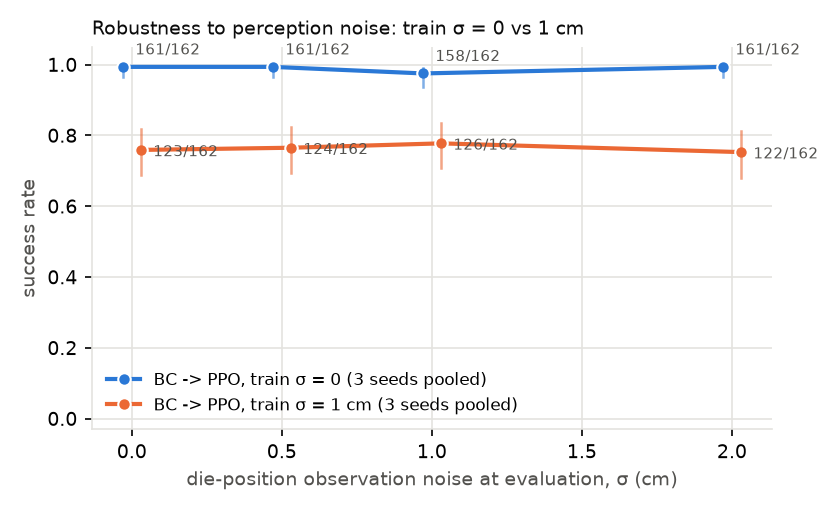
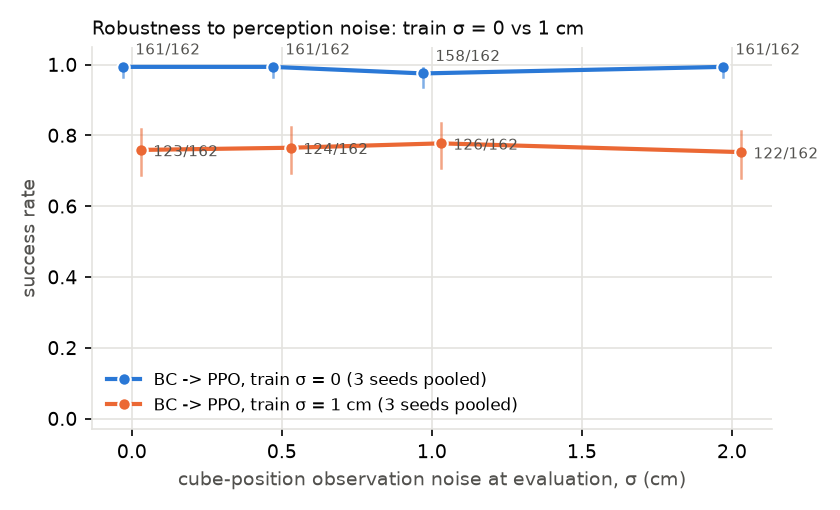
Call the foam die a cube
"Die" reads as a small dice; the real-robot pages already say cube.
Wording, comments and the ablation axis label only; no code paths change.

Changed region(s): [[0.2167, 0.9118, 0.8048, 0.9706]]

diff --git a/rebot_sim_rl/env.py b/rebot_sim_rl/env.py
@@ -1,6 +1,6 @@
 """Gymnasium environment: B601-RS T1 pick-and-place in MuJoCo (state observations).
 
-Task (aligned with reBot t1_pick_place_v1): pick the ~6 cm blue die from the mat
+Task (aligned with reBot t1_pick_place_v1): pick the ~6 cm blue cube from the mat
 grid and release it inside the open lunch box.
 
 MDP
@@ -12,20 +12,20 @@ MDP
                  pointing down) into joint position targets, which are clipped to
                  the real software limits and rate-limited (1 rad/s), then tracked
                  by force-limited joint PD servos (position actuators).
-  observation    38-d state vector (joint state, TCP, die pose, box offset,
-                 contacts, previous action); die position optionally noisy.
+  observation    38-d state vector (joint state, TCP, cube pose, box offset,
+                 contacts, previous action); cube position optionally noisy.
   reward         dense, staged, per-step max 1 (version 2, the default):
                  reach 0.2, grasp +0.2, lift +0.1, transport +0.4 (1 - tanh(3 d)),
-                 die inside box 0.9; success ends the episode with 1.0 for each
+                 cube inside box 0.9; success ends the episode with 1.0 for each
                  remaining step (equivalent to an absorbing max-reward state, so the
                  agent is never paid for delaying success). Version 1 (first pilot)
                  had no lift term and a transport term 1 - tanh(5 d) that is flat
                  ~0.4 m from the box; PPO then learned to grasp and hold (README).
                  Version 3 keeps the v2 shaping but counts success only for a careful
                  release (see CAREFUL_RELEASE_*): v2 policies let go while moving.
-  success        die centre inside the box's inner footprint, below 6 cm height,
+  success        cube centre inside the box's inner footprint, below 6 cm height,
                  not touched by either finger.
-  termination    success, or die knocked > 0.6 m from the workspace centre.
+  termination    success, or cube knocked > 0.6 m from the workspace centre.
   truncation     150 steps (15 s).
 """
 from __future__ import annotations
@@ -48,7 +48,7 @@ TILT_DEG_AT_TABLE = 12.0
 TILT_DEG_PER_M = 80.0
 TILT_DEG_MAX = 28.0
 # Careful placement (reward v3 success condition, also reported by the evaluation):
-# at the last release the die centre is at most 8 cm high (bottom ~at the 4.5 cm rim)
+# at the last release the cube centre is at most 8 cm high (bottom ~at the 4.5 cm rim)
 # and moves horizontally at most 0.2 m/s. The scripted expert releases at a median
 # 4.3 cm / 0.08 m/s; reward-v2 policies released while still moving, from up to 14 cm.
 CAREFUL_RELEASE_MAX_Z = 0.08
@@ -82,7 +82,7 @@ def target_rotation(pos, yaw):
 
 
 def fold90(a):
-    """Fold an angle to [-pi/4, pi/4) (the die is symmetric under 90 deg)."""
+    """Fold an angle to [-pi/4, pi/4) (the cube is symmetric under 90 deg)."""
     return (a + np.pi / 4) % (np.pi / 2) - np.pi / 4
 
 
@@ -235,7 +235,7 @@ class B601T1Env(gym.Env):
         self.ever_grasped = False
         self.max_stage = 0
         self.holding = False
-        self.release = None  # (die centre z, horizontal speed) at the most recent release
+        self.release = None  # (cube centre z, horizontal speed) at the most recent release
         return self._obs(), self._info(False)
 
     def step(self, action):
@@ -266,7 +266,7 @@ class B601T1Env(gym.Env):
         self.holding = (self.holding or grasped) and (left or right)
         success = self.in_box(cube) and not (left or right)
         if self.reward_version >= 3 and success:
-            # v3: only a careful placement counts (the T1 protocol lowers the die before release)
+            # v3: only a careful placement counts (the T1 protocol lowers the cube before release)
             success = self.careful_release()
         d_reach = np.linalg.norm(self.tcp_pos() - cube)
         r = 0.2 * (1 - math.tanh(10 * d_reach))

diff --git a/scripts/check_model.py b/scripts/check_model.py
@@ -5,8 +5,8 @@
    kinematically in the sim model. At each grasp (gripper starts closing after its
    largest opening) the simulated fingertip position is compared with the planned
    cube cell, and the tool axis with the vertical.
-3. Gripper mapping: the J7 reading while holding the 6 cm die is converted to a
-   finger gap with the linear profile-08 mapping and compared with the die size.
+3. Gripper mapping: the J7 reading while holding the 6 cm cube is converted to a
+   finger gap with the linear profile-08 mapping and compared with the cube size.
 4. Fraction of recorded samples outside the sim joint ranges.
 
 Writes results/model_check/{model_check.json, model_check.md}.
@@ -86,7 +86,7 @@ def main():
                                  "max": float(tipz.max())},
         "grasp_tool_tilt_deg": {"median": float(np.median(tilt)), "max": float(tilt.max())},
         "hold_gap_cm": {"median": float(np.median(gap)), "min": float(gap.min()), "max": float(gap.max()),
-                        "expected": "~6 cm die (soft, can be squeezed)"},
+                        "expected": "~6 cm cube (soft, can be squeezed)"},
     }
     (args.out / "model_check.json").write_text(json.dumps({"summary": summary, "grasps": rows}, indent=1))
 
@@ -101,12 +101,12 @@ def main():
               f"- Episodes with a detectable grasp: {len(rows)}",
               f"- TCP-to-planned-cell xy error: median {summary['grasp_xy_error_cm']['median']:.1f} cm, "
               f"p90 {summary['grasp_xy_error_cm']['p90']:.1f} cm, max {summary['grasp_xy_error_cm']['max']:.1f} cm "
-              "(cell positions themselves are +-2 cm; the die is placed +-1 cm)",
+              "(cell positions themselves are +-2 cm; the cube is placed +-1 cm)",
               f"- Fingertip height at grasp: median {summary['grasp_fingertip_z_cm']['median']:.1f} cm "
               f"(range {summary['grasp_fingertip_z_cm']['min']:.1f} to {summary['grasp_fingertip_z_cm']['max']:.1f}); "
               "the table is z = 0",
               f"- Tool axis tilt from vertical at grasp: median {summary['grasp_tool_tilt_deg']['median']:.0f} deg",
-              f"- Finger gap while holding the 6 cm die (linear J7 map): median {summary['hold_gap_cm']['median']:.1f} cm "
+              f"- Finger gap while holding the 6 cm cube (linear J7 map): median {summary['hold_gap_cm']['median']:.1f} cm "
               f"(range {summary['hold_gap_cm']['min']:.1f} to {summary['hold_gap_cm']['max']:.1f})",
               f"- Recorded samples outside the sim joint ranges by > 0.02 rad: {outside} / {total}", "",
               "| episode | cell | yaw | xy error cm | fingertip z cm | tilt deg | hold gap cm |",

diff --git a/tools/build_scene.py b/tools/build_scene.py
@@ -17,7 +17,7 @@ J1-J6 axes and meshes, is kept unchanged):
      MuJoCo position actuators (PD, force-limited to the upstream ctrlrange) with
      actuator gravity compensation, i.e. the same structure as the upstream
      physics-mode sync (tau = bias + kp*(q*-q) - kd*qd, clipped).
-  4. A table (base mounted on the table surface, z = 0), the 6 cm foam die and the
+  4. A table (base mounted on the table surface, z = 0), the 6 cm foam cube and the
      open lunch box are placed at the positions measured for the real T1 setup.
 """
 import argparse
@@ -134,7 +134,7 @@ def build(limits: dict, layout: dict) -> str:
     ET.SubElement(wb, "geom", name="desk_mat", type="box", size="0.148 0.21 0.0005",
                   pos=f"{gx:.3f} {gy:.3f} 0.0005", material="mat_white",
                   contype="0", conaffinity="0", group="1")
-    # Foam die: 6 cm, light, moderately high friction (foam)
+    # Foam cube: 6 cm, light, moderately high friction (foam)
     cube = layout["cube"]
     cb = ET.SubElement(wb, "body", name="cube", pos=f"{gx:.3f} {gy:.3f} {cube['half'] + 0.001:.4f}")
     ET.SubElement(cb, "freejoint", name="cube_free")

diff --git a/rebot_sim_rl/expert.py b/rebot_sim_rl/expert.py
@@ -1,6 +1,6 @@
-"""Scripted IK expert for T1-sim (uses privileged true die pose).
+"""Scripted IK expert for T1-sim (uses privileged true cube pose).
 
-Phases: approach above die -> descend -> close -> lift -> carry above box
+Phases: approach above cube -> descend -> close -> lift -> carry above box
 (rotating the finger axis to the box long side, as in the real protocol) ->
 lower -> open -> retreat. Outputs actions in the env's action space so the same
 trajectories can be used for behaviour cloning.
@@ -47,7 +47,7 @@ class ScriptedExpert:
         if self.grasp_yaw is None:
             self.grasp_yaw = e.tcp_yaw() + fold90(e.cube_yaw() - e.tcp_yaw())
         ph = self.phase
-        if ph == 0:  # above die, open, aligned
+        if ph == 0:  # above cube, open, aligned
             tgt = np.array([cube[0], cube[1], 0.12])
             a = self._move(tgt, self.grasp_yaw, OPEN)
             if np.linalg.norm(tgt - tcp) < 0.012 and abs(wrap(self.grasp_yaw - e.tcp_yaw())) < 0.05 and e.gap() > 0.07:

diff --git a/scripts/plot_ablation.py b/scripts/plot_ablation.py
@@ -1,4 +1,4 @@
-"""Single-factor ablation: success vs evaluation-time die-position noise.
+"""Single-factor ablation: success vs evaluation-time cube-position noise.
 
 Reads results/eval/<group>_s<seed>.json written by scripts/evaluate.py and pools the
 seeds of each group (same 54 starts and noise sequences per setting).
@@ -60,7 +60,7 @@ def main():
         table[label] = {f"{x * 100:g}cm": {"successes": agg[x][0], "episodes": agg[x][1],
                                            "wilson95": [round(v, 3) for v in wilson(*agg[x])],
                                            "per_seed_rate": [round(r, 3) for r in per_seed[x]]} for x in xs}
-    ax.set_xlabel("die-position observation noise at evaluation, σ (cm)", color=INK2)
+    ax.set_xlabel("cube-position observation noise at evaluation, σ (cm)", color=INK2)
     ax.set_ylabel("success rate", color=INK2)
     ax.set_ylim(-0.03, 1.05)
     ax.set_title("Robustness to perception noise: train σ = 0 vs 1 cm", color=INK, loc="left", fontsize=9)

diff --git a/scripts/evaluate.py b/scripts/evaluate.py
@@ -1,6 +1,6 @@
 """Fixed-seed evaluation of a saved policy, optionally under perturbations, with videos.
 
-  # nominal + robustness sweep over die-position observation noise
+  # nominal + robustness sweep over cube-position observation noise
   python scripts/evaluate.py --model runs/x/model_last.zip --obs-noise 0 0.005 0.01 0.02 \
       --out results/eval/x.json
   # save failure (and a few success) videos
@@ -36,7 +36,7 @@ def main():
     ap.add_argument("--model", type=Path, required=True)
     ap.add_argument("--obs-noise", type=float, nargs="+", default=[0.0])
     ap.add_argument("--friction", type=float, nargs="*", default=None,
-                    help="optional die friction values to sweep at zero obs noise")
+                    help="optional cube friction values to sweep at zero obs noise")
     ap.add_argument("--reps", type=int, default=EVAL_REPS)
     ap.add_argument("--out", type=Path)
     ap.add_argument("--videos", type=Path, default=None)

diff --git a/scripts/train_rl.py b/scripts/train_rl.py
@@ -81,7 +81,7 @@ def main():
     ap.add_argument("--log-std-init", type=float, default=0.0)
     ap.add_argument("--warmup-steps", type=int, default=0, help="critic-only updates before the actor trains")
     ap.add_argument("--ent-coef", type=float, default=0.0)
-    ap.add_argument("--obs-noise", type=float, default=0.0, help="train-time die position obs noise (m)")
+    ap.add_argument("--obs-noise", type=float, default=0.0, help="train-time cube position obs noise (m)")
     ap.add_argument("--reward-version", type=int, default=2)
     ap.add_argument("--eval-every", type=int, default=250_000)
     ap.add_argument("--device", default="auto")

diff --git a/scripts/collect_demos.py b/scripts/collect_demos.py
@@ -1,6 +1,6 @@
 """Collect scripted-IK demonstrations on the training start distribution.
 
-The expert sees the true die pose. Labels are the clean expert actions; the
+The expert sees the true cube pose. Labels are the clean expert actions; the
 executed action can be perturbed (DART-style) to widen state coverage. Only
 successful episodes are kept, like the accepted real T1 demos.
 """

diff --git a/README.md b/README.md
@@ -1,7 +1,7 @@
 # rebot-sim-rl: RL and imitation in a MuJoCo twin of the reBot B601-RS T1 task
 
 State-based reinforcement learning, behaviour cloning, and BC→RL fine-tuning on a
-simulated version of the real-robot task *T1: pick up the ~6 cm blue foam die and
+simulated version of the real-robot task *T1: pick up the ~6 cm blue foam cube and
 place it in the white lunch box* (reBot `t1_pick_place_v1`). Everything here is
 **simulation only**. None of these policies has been run on the real arm.
 
@@ -11,7 +11,7 @@ All numbers: deterministic policy, **54 fixed T1 starts** per checkpoint (9 mat
 points × yaw {0°, 45°} × 3 placement jitters), 3 training seeds per condition,
 pooled counts with 95% Wilson intervals. Reward version 2 unless noted.
 
-| Policy | Env steps | Success (die in box, released) | Careful placement* |
+| Policy | Env steps | Success (cube in box, released) | Careful placement* |
 |---|---|---|---|
 | Scripted IK expert (privileged) | – | 54/54 | 48/54 |
 | BC, 10 scripted demos | – | **0/162** (0–2%) | 0/162 |
@@ -20,9 +20,9 @@ pooled counts with 95% Wilson intervals. Reward version 2 unless noted.
 | BC → PPO, train obs noise 1 cm (ablation) | 3M | 123/162 (76%, 69–82%); seeds 54, 15, 54 | 29/162 (18%) |
 | BC → PPO, reward v3 (only careful placement counts) | 3M | 25/162 (15%, 11–22%); seeds 2, 10, 13 | 12/162 (7%, 4–13%) |
 
-\*Careful placement: at release the die centre is ≤ 8 cm high (its bottom about at
+\*Careful placement: at release the cube centre is ≤ 8 cm high (its bottom about at
 the 4.5 cm box rim) and moves horizontally ≤ 0.2 m/s. The real T1 protocol lowers
-the die into the box before opening.
+the cube into the box before opening.
 
 ![evaluation success](results/figures/main_eval_success.png)
 
@@ -37,20 +37,20 @@ What the experiments show:
    climbed from 12 to 68 per episode in 1M steps at 0% success: it learned to grasp
    and hold, because the transport term was flat far from the box
    (`results/figures/pilot_reward_v1_*.png`). Even with v2, scratch PPO spends
-   millions of steps carrying the die to the box and holding it there; releasing
+   millions of steps carrying the cube to the box and holding it there; releasing
    costs the grasp and transport reward before the success bonus arrives.
    Training return and success are plotted separately
    (`main_train_return.png`, `main_train_success.png`, `main_eval_success.png`).
 3. **The success metric was gamed.** Reward-v2 policies let go while still moving,
    from up to 20 cm (median 8.9 cm): BC→PPO's 161/162 "successes" contain only 13 careful
-   placements. The success test only checks where the die ends up.
+   placements. The success test only checks where the cube ends up.
    **Tightening the success test alone did not fix it.** Reward v3 (same shaping,
    success and its bonus only for a careful placement) removed the shortcut but
-   BC→PPO then mostly carried the die and held it: 12/162 careful placements after
+   BC→PPO then mostly carried the cube and held it: 12/162 careful placements after
    3M steps, no better than v2 (`results/figures/v3_*.png`). A shaping term for
    lowering into the box mouth (or demos that do it) is the next thing to try;
    not done here.
-4. **Domain-randomisation ablation (single factor: die-position observation noise,
+4. **Domain-randomisation ablation (single factor: cube-position observation noise,
    i.i.d. Gaussian per step) found no benefit.** Policies fine-tuned without noise
    kept 158–161/162 at evaluation noise up to σ = 2 cm; training with σ = 1 cm did
    not improve that and one of its three seeds did not converge (15/54). The
@@ -64,8 +64,8 @@ What the experiments show:
    0/162, 20 demos 111/162, 50 demos 146/162 (`results/figures/bc_scaling.png`).
 
 Failure modes (`results/videos/`, first failures of each model at σ = 0):
-scratch PPO holding the die inside the box mouth without releasing (top), BC
-carrying the die to the box but never opening (middle); bottom: a BC→PPO "success"
+scratch PPO holding the cube inside the box mouth without releasing (top), BC
+carrying the cube to the box but never opening (middle); bottom: a BC→PPO "success"
 that lets go while still moving.
 
 ![failure modes](results/figures/failure_modes.png)
@@ -106,9 +106,9 @@ exceeded its time limit.
 | Arm | upstream B601-RS MJCF kinematics, inertias and meshes; joint ranges clipped to the real software limits of control profile 08 (relative to the profile reference zero) | B601-RS, profile `b601_px6d_w2l_wide_open_20261016_08` |
 | Tool | primitive PX6D + R8 + W2L model: 24 cm flange-to-fingertip, parallel gap 0–8.4 cm, 30 N grip limit | PX6D-75 + R8 + two DM-Tac W2L fingers, 24 cm (tape), 8.4 cm max gap |
 | Control | 10 Hz Cartesian delta (2 cm, 0.15 rad yaw) → damped-least-squares IK → joint targets (limit-clipped, 1 rad/s) → force-limited joint PD with gravity compensation | 50 Hz joint-position mirror of a leader arm (teleop); policies output joint positions at 30 Hz |
-| Observation | 38-d state: joints, TCP pose, die pose, box offset, finger contacts, last action | two RGB cameras + joint state (no die pose) |
-| Starts | die anywhere in the 9-point mat frame (±1.5 cm), yaw 0–90°; evaluation on the 9 printed points × yaw {0°, 45°} × 3 placement jitters (±1 cm) = **54 fixed episodes** | same 9 points × yaw {0°, 45°} |
-| Success | die centre inside the box's inner footprint, below 6 cm, not touched by the fingers | die in the box and released |
+| Observation | 38-d state: joints, TCP pose, cube pose, box offset, finger contacts, last action | two RGB cameras + joint state (no cube pose) |
+| Starts | cube anywhere in the 9-point mat frame (±1.5 cm), yaw 0–90°; evaluation on the 9 printed points × yaw {0°, 45°} × 3 placement jitters (±1 cm) = **54 fixed episodes** | same 9 points × yaw {0°, 45°} |
+| Success | cube centre inside the box's inner footprint, below 6 cm, not touched by the fingers | cube in the box and released |
 
 Positions come from the measured T1 layout (mat 12 cm to the arm's left, cross
 ~40 cm forward, box centre ~(38, −22) cm), see `configs/t1_layout.json`.
@@ -119,7 +119,7 @@ Replaying the joint traces of 40 recorded real T1 demonstrations through the sim
 kinematics (offline, read-only):
 
 - At the moment the operator starts closing the gripper, the simulated TCP lies a
-  median **2.3 cm** (p90 3.4 cm) from the planned die cell. The cells themselves are
+  median **2.3 cm** (p90 3.4 cm) from the planned cube cell. The cells themselves are
   only known to about ±2 cm, so this bounds rather than measures the model error.
 - The simulated fingertip is **0.7–2.6 cm above the table** at those grasps (median
   1.8 cm): joint zeros, signs and the 24 cm tool length are consistent.
@@ -128,21 +128,21 @@ kinematics (offline, read-only):
   with the real J4 lower limit (−1.365 rad) a vertical tool is infeasible over most
   of the workspace, so the sim IK also tilts the tool outward (12° at table height,
   more when higher).
-- The finger gap while holding the 6 cm die maps to a median 4.75 cm with the
+- The finger gap while holding the 6 cm cube maps to a median 4.75 cm with the
   linear J7 calibration: either the foam is squeezed or the near-closed gap is not
   zero (profile 08 notes it may not be). Unresolved; see `sim2real/PROTOCOL.md`.
 
 ### MDP details
 
 - Reward (version 2, dense, ≤ 1 per step): reach 0.2 · (1 − tanh 10d), grasp +0.2,
-  lift +0.1, transport +0.4 · (1 − tanh 3d) toward a point 10 cm above the box, die
+  lift +0.1, transport +0.4 · (1 − tanh 3d) toward a point 10 cm above the box, cube
   in box 0.9. Success ends the episode and pays 1 per remaining step, so finishing
   early is never worse than holding a high-reward state.
-- 150 steps (15 s) per episode; termination on success or if the die leaves the table area.
+- 150 steps (15 s) per episode; termination on success or if the cube leaves the table area.
 - Version 1 of the reward used a transport term 1 − tanh 5d (flat about 40 cm from
   the box) and no lift term; it is kept as `--reward-version 1` for the pilot below.
 - Version 3 (`--reward-version 3`) keeps the v2 shaping but grants success only for a
-  careful placement (die centre ≤ 8 cm and horizontal speed ≤ 0.2 m/s at release).
+  careful placement (cube centre ≤ 8 cm and horizontal speed ≤ 0.2 m/s at release).
 
 ## Reproduce
 
@@ -171,10 +171,10 @@ see `results/libero/RUNS.md`.
 
 ## Limitations
 
-- **Simulation is not the real robot.** The tool and die are boxes; foam
-  compliance, die mass and friction are guesses; there is no camera, no
+- **Simulation is not the real robot.** The tool and cube are boxes; foam
+  compliance, cube mass and friction are guesses; there is no camera, no
   latency and no leader-arm teleoperation; the controller is an ideal joint PD.
-  The sim policies see the true die pose, which the real robot does not have.
+  The sim policies see the true cube pose, which the real robot does not have.
 - **Different action interface.** The sim agent acts through Cartesian deltas and
   IK; the real policies output joint positions. Only joint-space kinematics have
   been checked against the real arm (above), not dynamics or contact.

diff --git a/sim2real/PROTOCOL.md b/sim2real/PROTOCOL.md
@@ -14,7 +14,7 @@ the gripper force, or a learned policy.
 
 What is already known offline (`results/model_check/model_check.md`): replaying 40
 recorded T1 grasps through the sim kinematics puts the TCP within a median 2.3 cm
-(p90 3.4 cm) of the planned die cell, with the fingertip 0.7–2.6 cm above the table.
+(p90 3.4 cm) of the planned cube cell, with the fingertip 0.7–2.6 cm above the table.
 The planned cells themselves are only known to about ±2 cm, so this bounds but does
 not measure the model error. The touch-point check below replaces the planned cells
 with tape-measured points.
@@ -69,7 +69,7 @@ table height, in that order.
 ## Optional step 4 — gripper gap map
 
 The offline check found a median 4.75 cm finger gap (linear J7 map) while holding
-the 6 cm foam die. To separate foam compression from map error, close the fingers
+the 6 cm foam cube. To separate foam compression from map error, close the fingers
 on rigid blocks of 2, 4 and 6 cm and record J7 raw for each (read-only, gripper
 only, inside a normal mirror episode). Fit `gap = a (raw - ref) + b` and update
 `configs/real_limits.json` if it differs.

diff --git a/results/model_check/model_check.md b/results/model_check/model_check.md
@@ -16,10 +16,10 @@ Source profile: `b601_px6d_w2l_wide_open_20261016_08` (sha256 `13accacde2be`)
 ## FK consistency against recorded T1 grasps
 
 - Episodes with a detectable grasp: 40
-- TCP-to-planned-cell xy error: median 2.3 cm, p90 3.4 cm, max 5.6 cm (cell positions themselves are +-2 cm; the die is placed +-1 cm)
+- TCP-to-planned-cell xy error: median 2.3 cm, p90 3.4 cm, max 5.6 cm (cell positions themselves are +-2 cm; the cube is placed +-1 cm)
 - Fingertip height at grasp: median 1.8 cm (range 0.7 to 2.6); the table is z = 0
 - Tool axis tilt from vertical at grasp: median 12 deg
-- Finger gap while holding the 6 cm die (linear J7 map): median 4.8 cm (range 3.6 to 6.0)
+- Finger gap while holding the 6 cm cube (linear J7 map): median 4.8 cm (range 3.6 to 6.0)
 - Recorded samples outside the sim joint ranges by > 0.02 rad: 0 / 13536
 
 | episode | cell | yaw | xy error cm | fingertip z cm | tilt deg | hold gap cm |

diff --git a/data/README.md b/data/README.md
@@ -2,7 +2,7 @@
 
 `real_t1_joint_traces.json`: joint angles of 41 teleoperated T1 demonstrations recorded on the
 real B601-RS on 2026-10-16 (the episodes that completed or ended with an operator stop and a safe
-return). Each entry has the episode name, the planned die cell and yaw, the mat offset, the
+return). Each entry has the episode name, the planned cube cell and yaw, the mat offset, the
 control profile and `q_rel`: J1–J7 positions relative to the profile reference zero, every 5th
 feedback sample (~10 Hz). Produced by `tools/extract_real_joint_traces.py` from the reBot
 recordings (`<episode>/mirror_trace.json`, `meta.json`); used only by `scripts/check_model.py`
